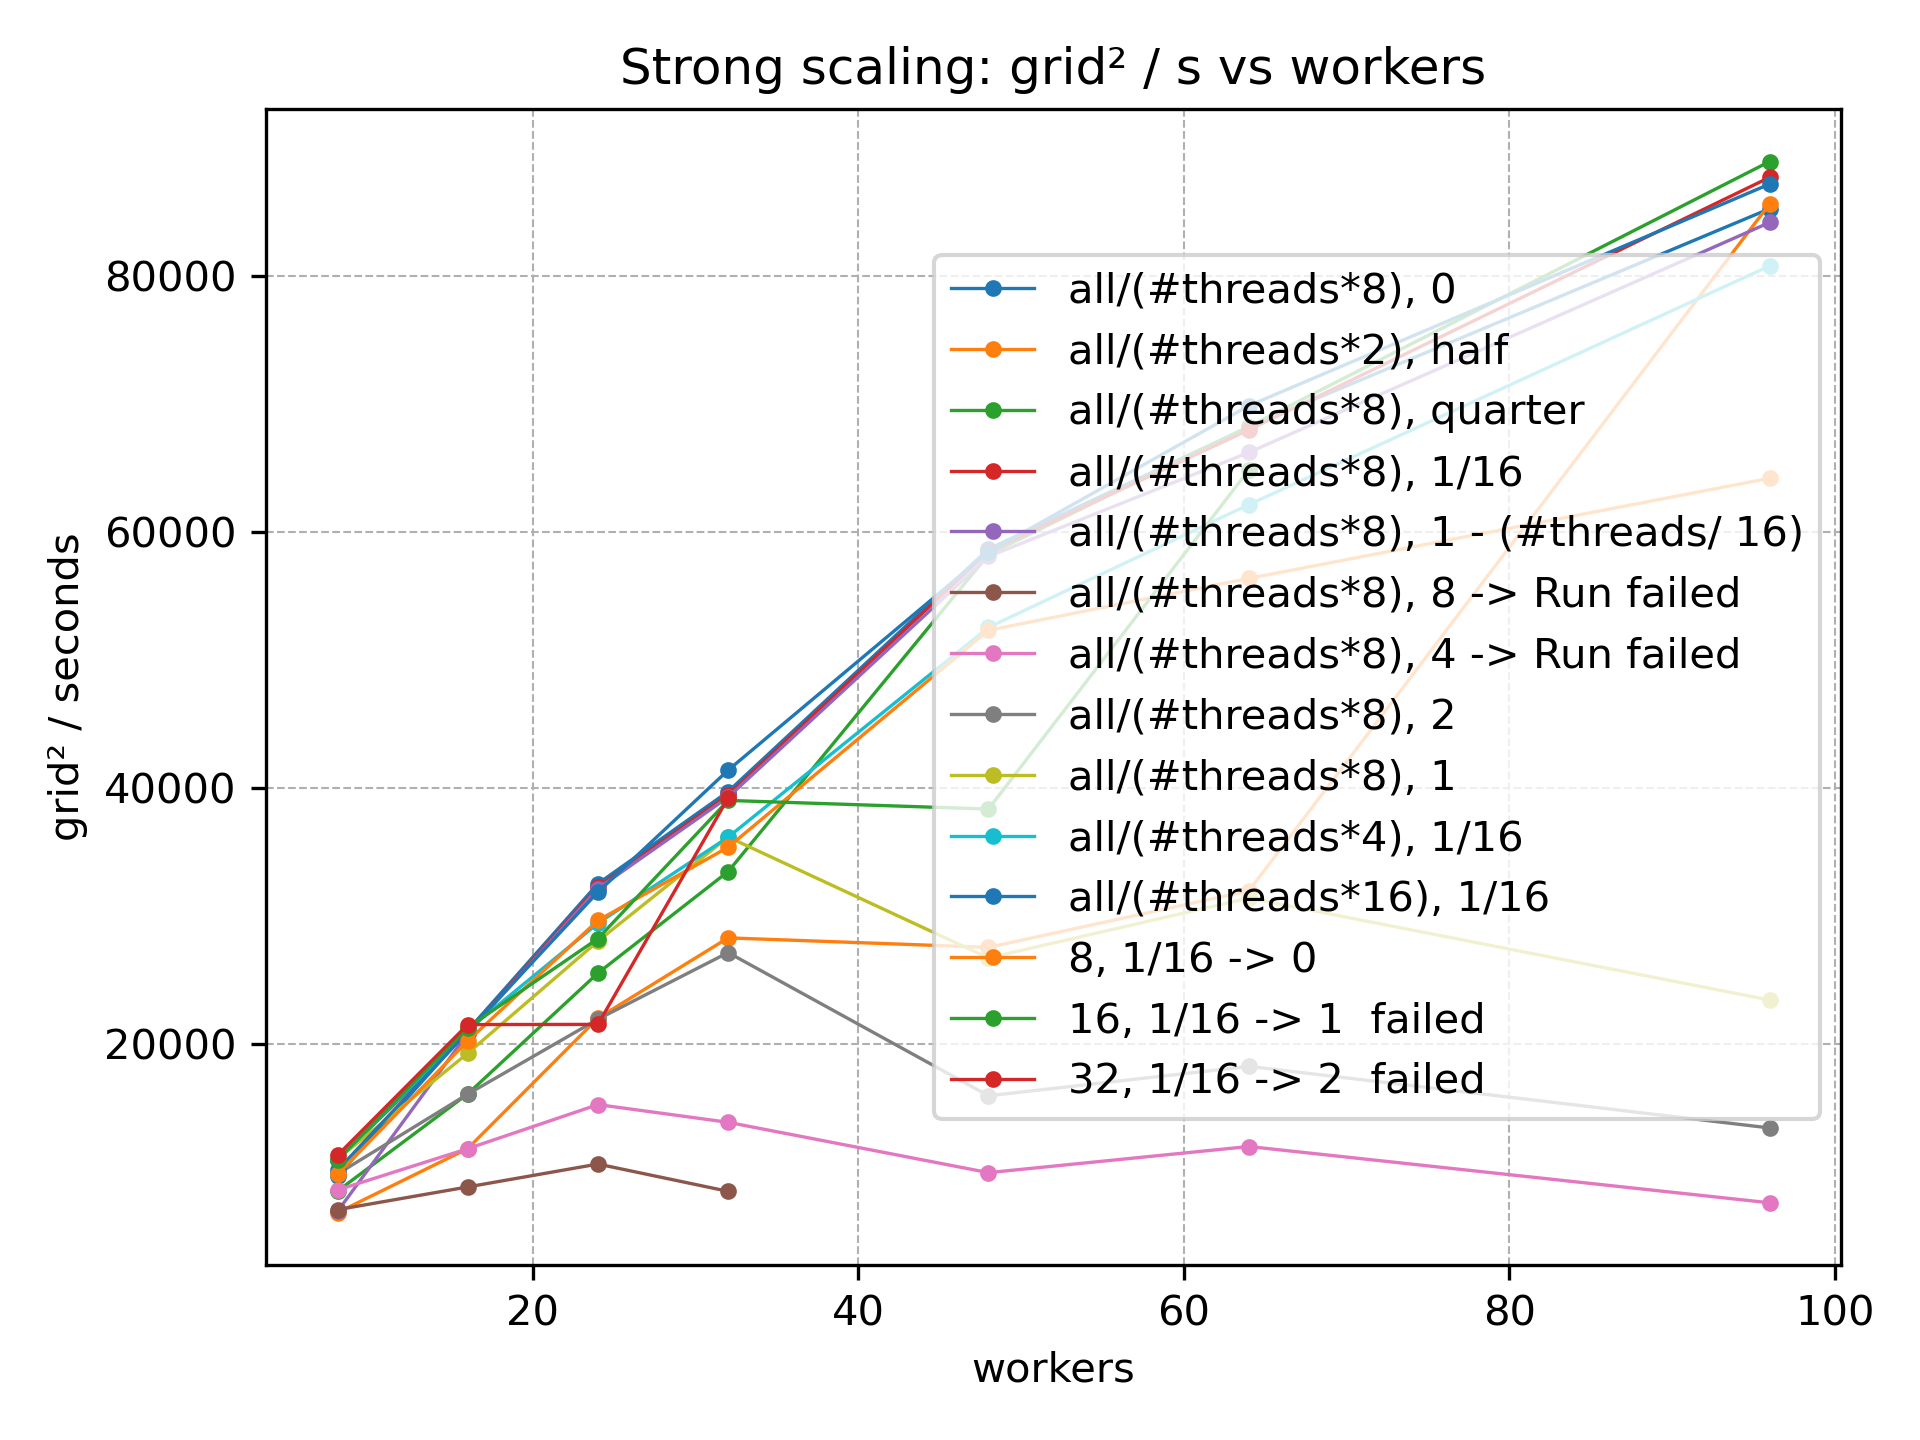
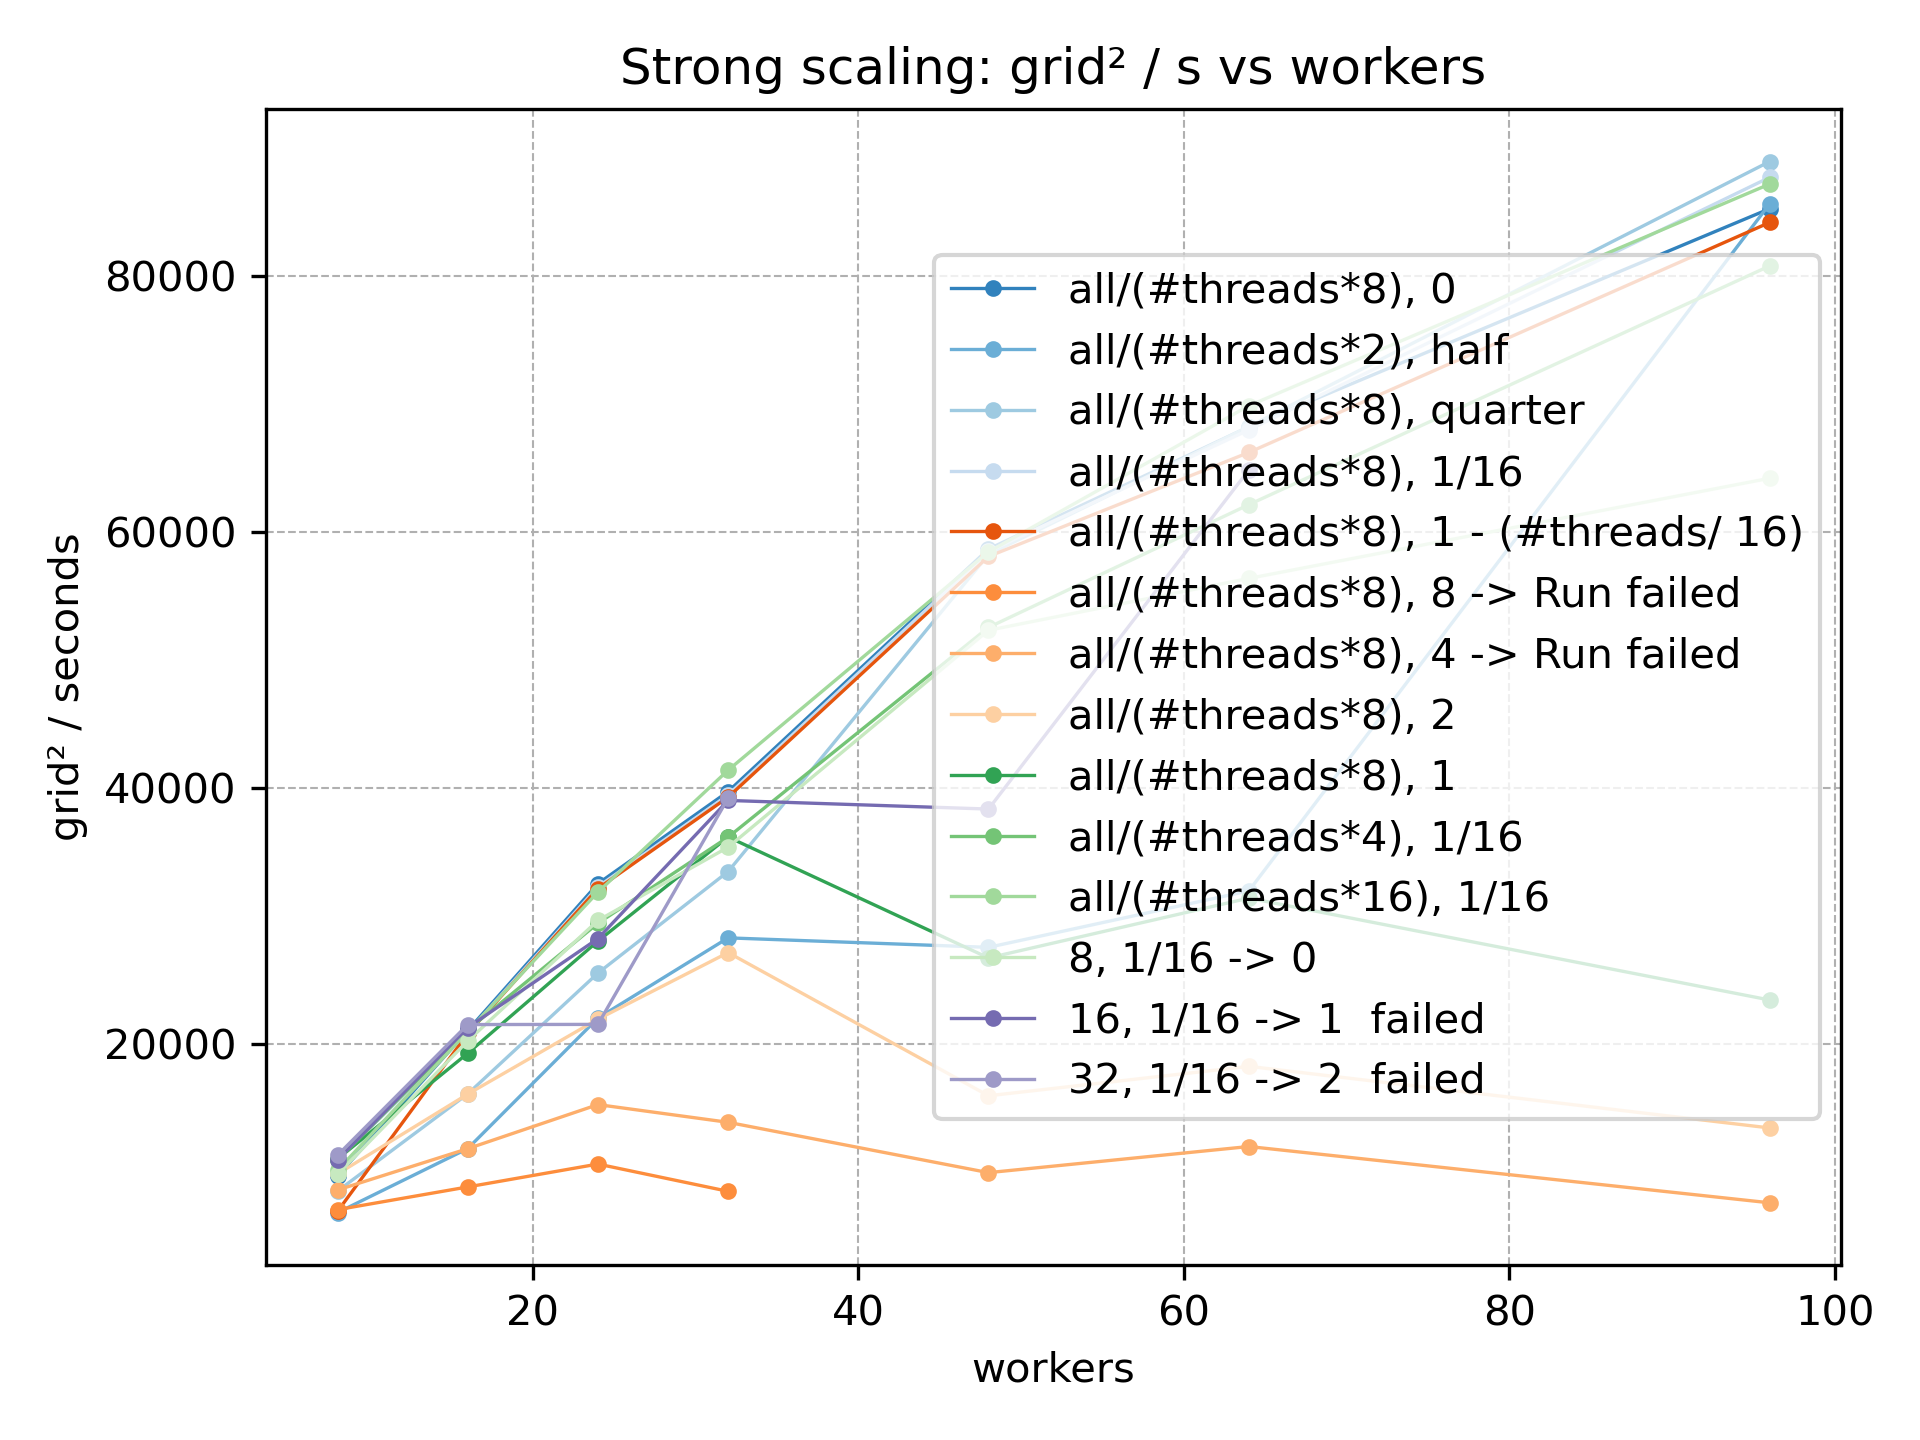
Fix reuse of colors issue

diff --git a/plot-reduced.py b/plot-reduced.py
@@ -5,7 +5,6 @@ from pathlib import Path
 
 import matplotlib.pyplot as plt
 
-
 def load_curve(csv_path: Path):
     xs, ys = [], []
     with csv_path.open(newline="") as f:
@@ -42,7 +41,9 @@ def main():
     fig_weak, ax_weak = plt.subplots()
 
     # iterate over immediate subdirectories of datadir
-    for subdir in sorted(p for p in datadir.iterdir() if p.is_dir()):
+    cmap = plt.colormaps.get_cmap("tab20c")
+    for i, subdir in enumerate(sorted(p for p in datadir.iterdir() if p.is_dir())):
+        color = cmap(i)
         strong_csv = subdir / "strong_scaling.csv"
         weak_csv = subdir / "weak_scaling.csv"
         cfg_txt = subdir / "config.txt"
@@ -56,10 +57,10 @@ def main():
         xs_w, ys_w = load_curve(weak_csv)
 
         if xs_s:  # only plot if we actually have data
-            ax_strong.plot(xs_s, ys_s, marker="o", linewidth=0.8, markersize=3, label=label)
+            ax_strong.plot(xs_s, ys_s, marker="o", linewidth=0.8, markersize=3, color=color, label=label)
 
         if xs_w:  # same for weak scaling
-            ax_weak.plot(xs_w, ys_w, marker="o", linewidth=0.8, markersize=3, label=label)
+            ax_weak.plot(xs_w, ys_w, marker="o", linewidth=0.8, markersize=3, color=color, label=label)
 
     # strong scaling figure
     ax_strong.set_xlabel("workers")
